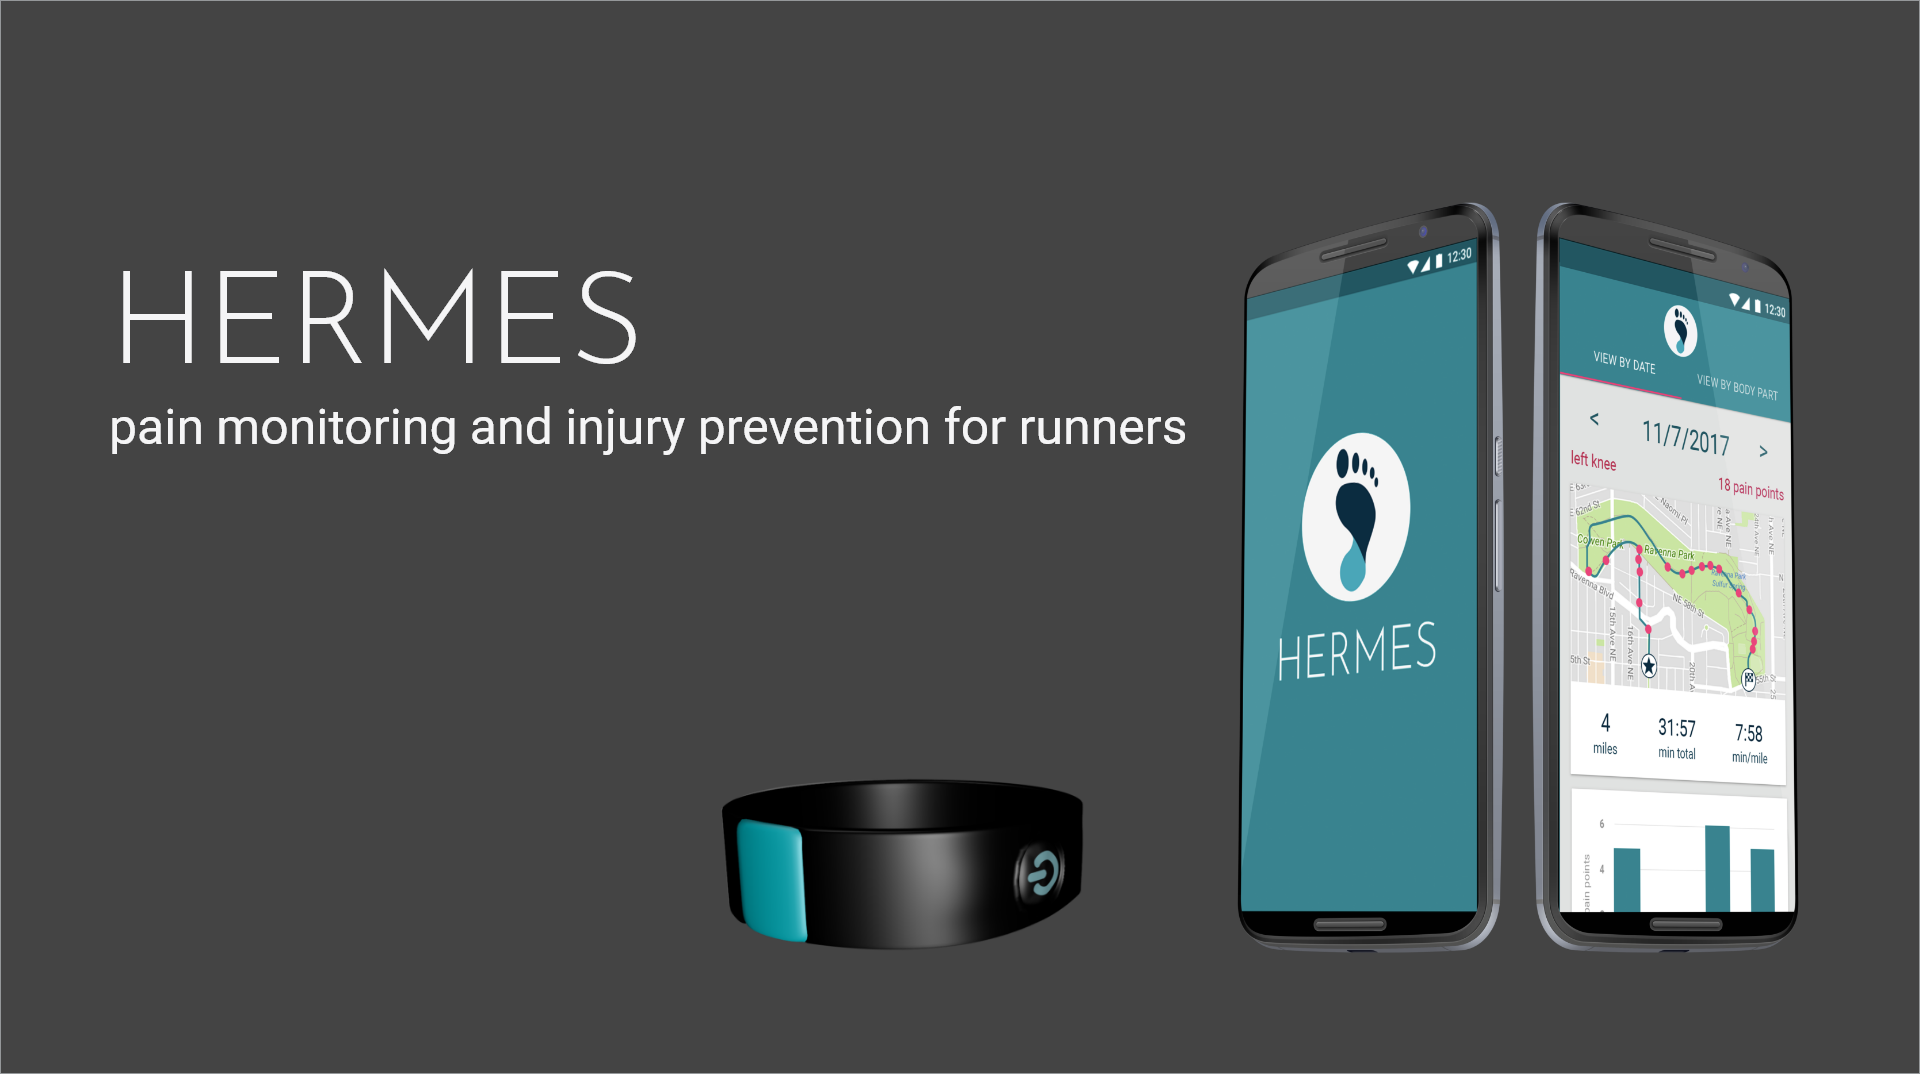
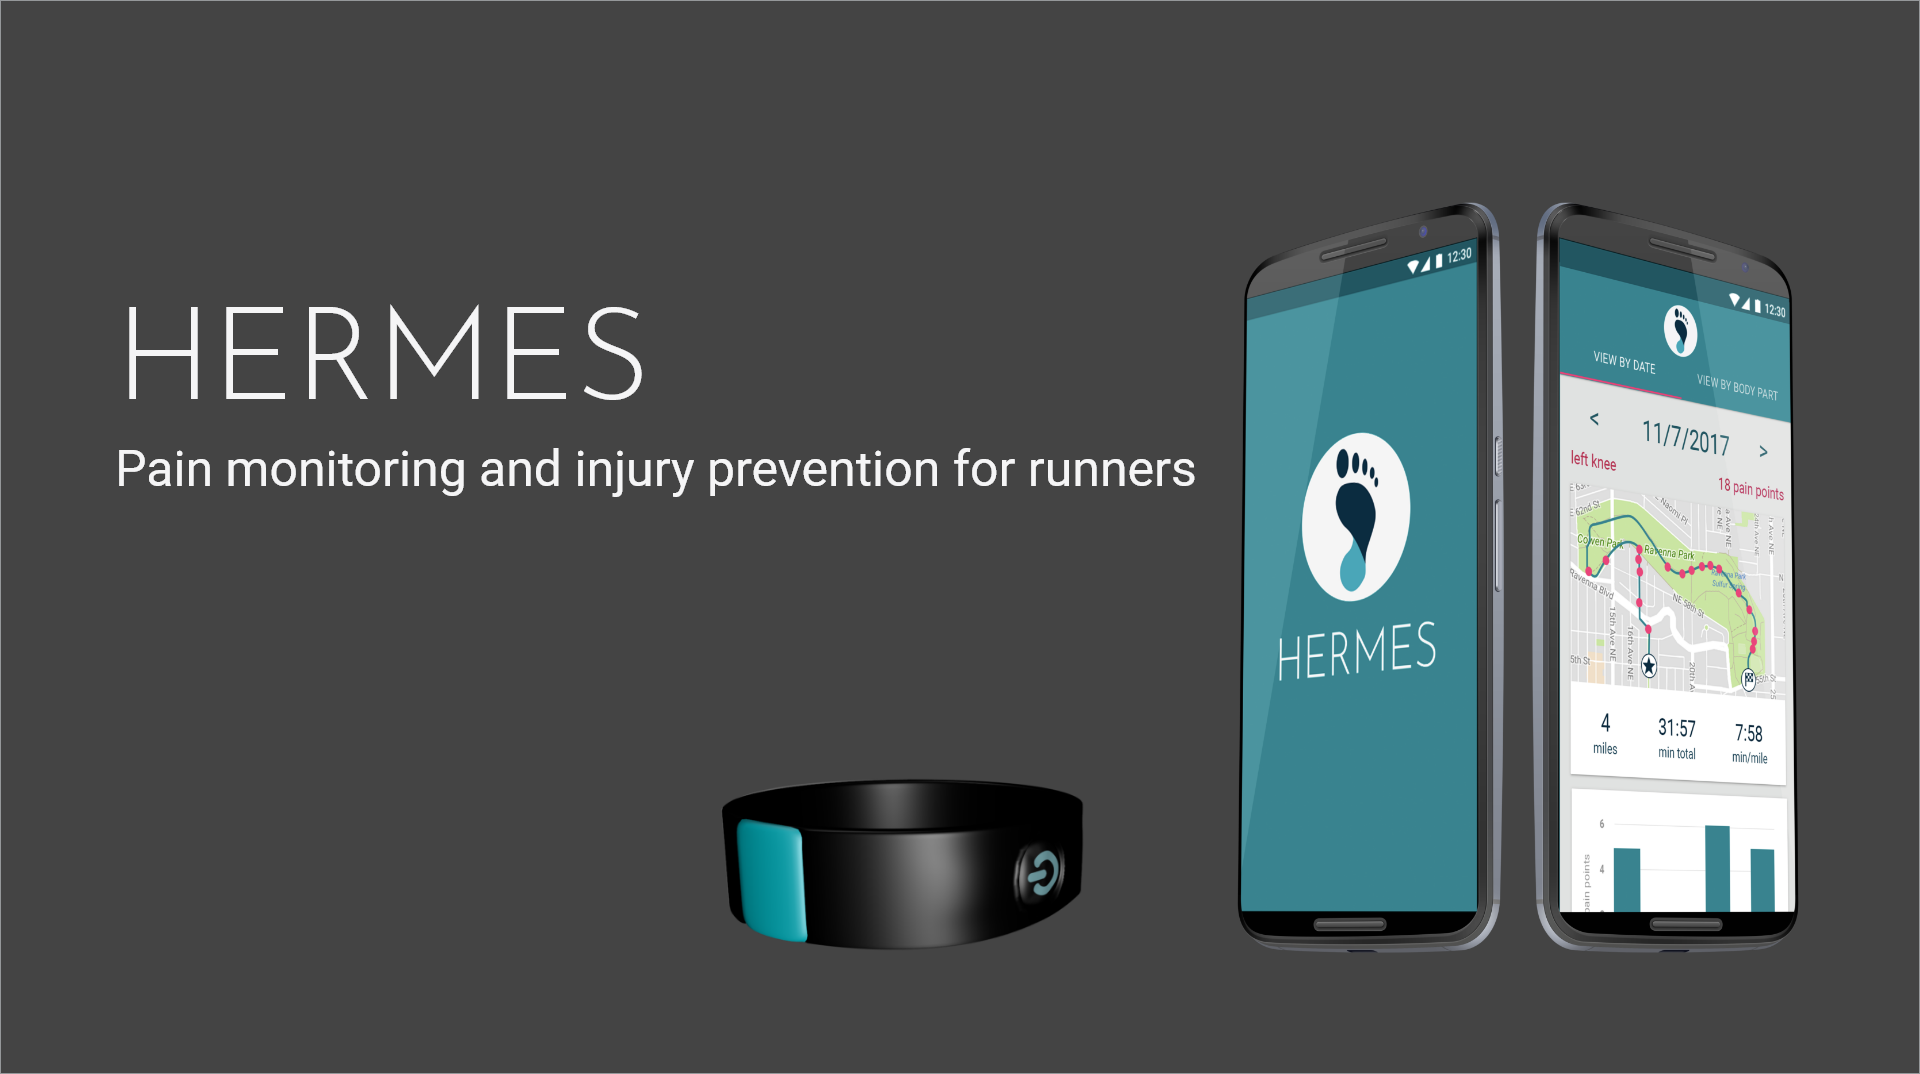
style changes based on section feedback

Changed region(s): [[0.0625, 0.2458, 0.625, 0.4609]]

diff --git a/projects/hermes/index.html b/projects/hermes/index.html
@@ -58,19 +58,22 @@
 							<section id="intro" class="main special">
 								<div>
 									<h2>The Problem</h2>
-									<p>Runners frequently experience pain or discomfort while running, and repetitive stress injuries are common.  Unfortunately, they often struggle to determine what aches or pains are appearing with regularity or in concerning patterns. Preventing stress injuries from developing once minor pain  has begun also presents a challenge for these athletes. Injury/pain tracking is known to be an important method for the diagnosis and prevention of stress injuries; however, there currently does not exist an effective solution in this space targeted at amateurs.</p>
+									<p>Runners frequently experience pain or discomfort while running, and repetitive stress injuries are common.  Unfortunately, they often struggle to determine what aches or pains are appearing with regularity or in concerning patterns. Preventing stress injuries from developing once minor pain  has begun also presents a challenge for these athletes. Injury/pain tracking is known to be an important method for the diagnosis and prevention of stress injuries; however, there currently does not exist an effective solution targeted at amateurs.</p>
 								</div>
 								<div>
 									<h2>Our Solution</h2>
-									<p> Hermes tracks pain in addition to standard workout metrics such as distance, time and elevation. Using this data, Hermes draws insights and shows users correlations between workout metrics and pain. Intelligent suggestions for specific injury prevention exercises are also offered to the user based on the collected data. Overall, we hope that Hermes will empower runners to develop a better understanding of identifying stress injuries and provide support for injury prevention.</p>
+									<p> Hermes tracks pain in addition to standard workout metrics such as distance, time and elevation. Using this data, it draws insights and shows users correlations between workout metrics and pain. Intelligent suggestions for specific injury prevention exercises are also offered based on the collected data. Overall, we hope that Hermes will empower runners to develop a better understanding of identifying stress injuries and provide support for injury prevention.</p>
 								</div>
 							</section>
 
 						<!-- Second Section -->
 							<section id="features" class="">
 								<img src="images/ring_section.png" alt="ring_1"/>
+								<img src="images/divider_line.png" alt="divider"/>
 								<img src="images/app_section_1.png" alt="app_1"/>
+								<img src="images/divider_line.png" alt="divider"/>
 								<img src="images/app_section_2.png" alt="app_2"/>
+								<img src="images/divider_line.png" alt="divider"/>
 								<img src="images/app_section_3.png" alt="app_3"/>
 								<img src="images/app_section_4.png" alt="app_4"/>
 							</section>
@@ -82,7 +85,7 @@
 							</section>
 
 							<div id="dialog_popup">
-							  <video id="dialog_video" width="853" height="480" controls autoplay>
+							  <video id="dialog_video" width="1065" height="600" controls autoplay>
 									<source src="./documents/video_prototype.mp4" type="video/mp4">
 								</video>
 							</div>

diff --git a/projects/hermes/assets/css/custom.css b/projects/hermes/assets/css/custom.css
@@ -33,7 +33,8 @@ body {
   max-width: 100%;
   color: #F5F5F6;
   padding: 0 4em;
-  background-color: #005662; }
+  background-color: #005662;
+  z-index: 50; }
 
 #nav.alt ul li {
   height: 100%; }
@@ -62,6 +63,14 @@ body {
 
 #nav.scroll {
   background-color: rgba(0, 0, 0, 0); }
+
+#intro {
+  text-align: left; }
+
+#intro h2 {
+  max-width: 75%;
+  margin-left: auto;
+  margin-right: auto; }
 
 #main_img {
   width: 100%; }
@@ -300,7 +309,7 @@ section {
   right: auto; }
 
 .ui-dialog .ui-dialog-title {
-  width: 70%; }
+  width: 77%; }
 
 .ui-draggable .ui-dialog-titlebar {
   margin: 0;

diff --git a/projects/hermes/assets/sass/custom.scss b/projects/hermes/assets/sass/custom.scss
@@ -52,6 +52,7 @@ body {
     color: $offwhite;
     padding: 0 4em;
     background-color: $header;
+    z-index: 50;
 }
 
 #nav.alt ul li {
@@ -86,6 +87,16 @@ body {
 
 #nav.scroll {
   background-color: rgba(0,0,0,0);
+}
+
+#intro {
+	text-align: left;
+}
+
+#intro h2 {
+	max-width: 75%;
+    margin-left: auto;
+    margin-right: auto;
 }
 
 #main_img {
@@ -373,7 +384,7 @@ section {
 }
 
 .ui-dialog .ui-dialog-title {
-	width: 70%;
+	width: 77%;
 }
 
 .ui-draggable .ui-dialog-titlebar {
@@ -410,4 +421,6 @@ section {
 	opacity: 0.8;
     background: rgb(1,1,1);
 }
+
+
 
